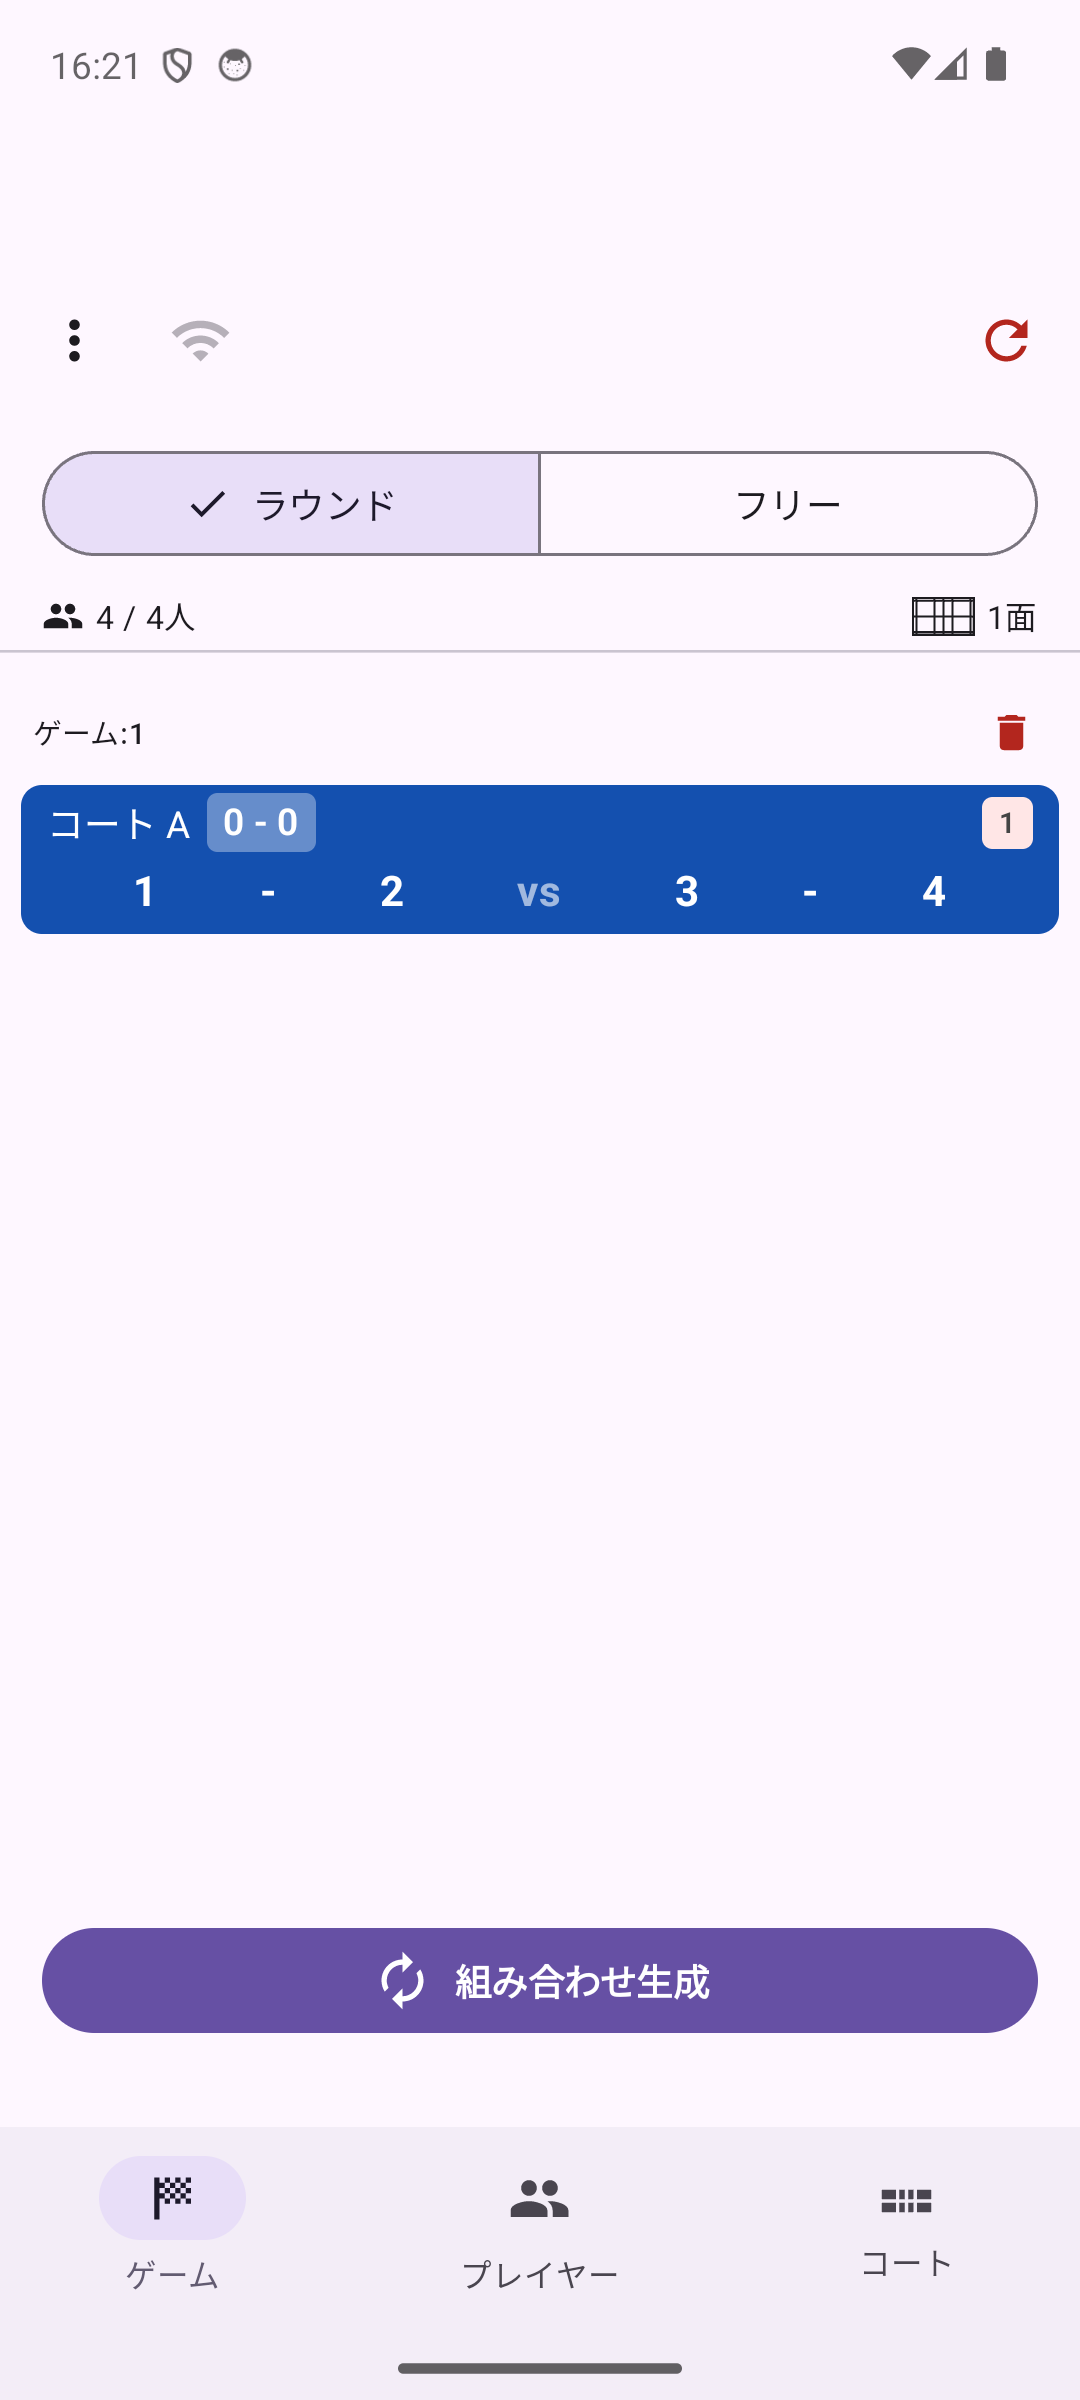
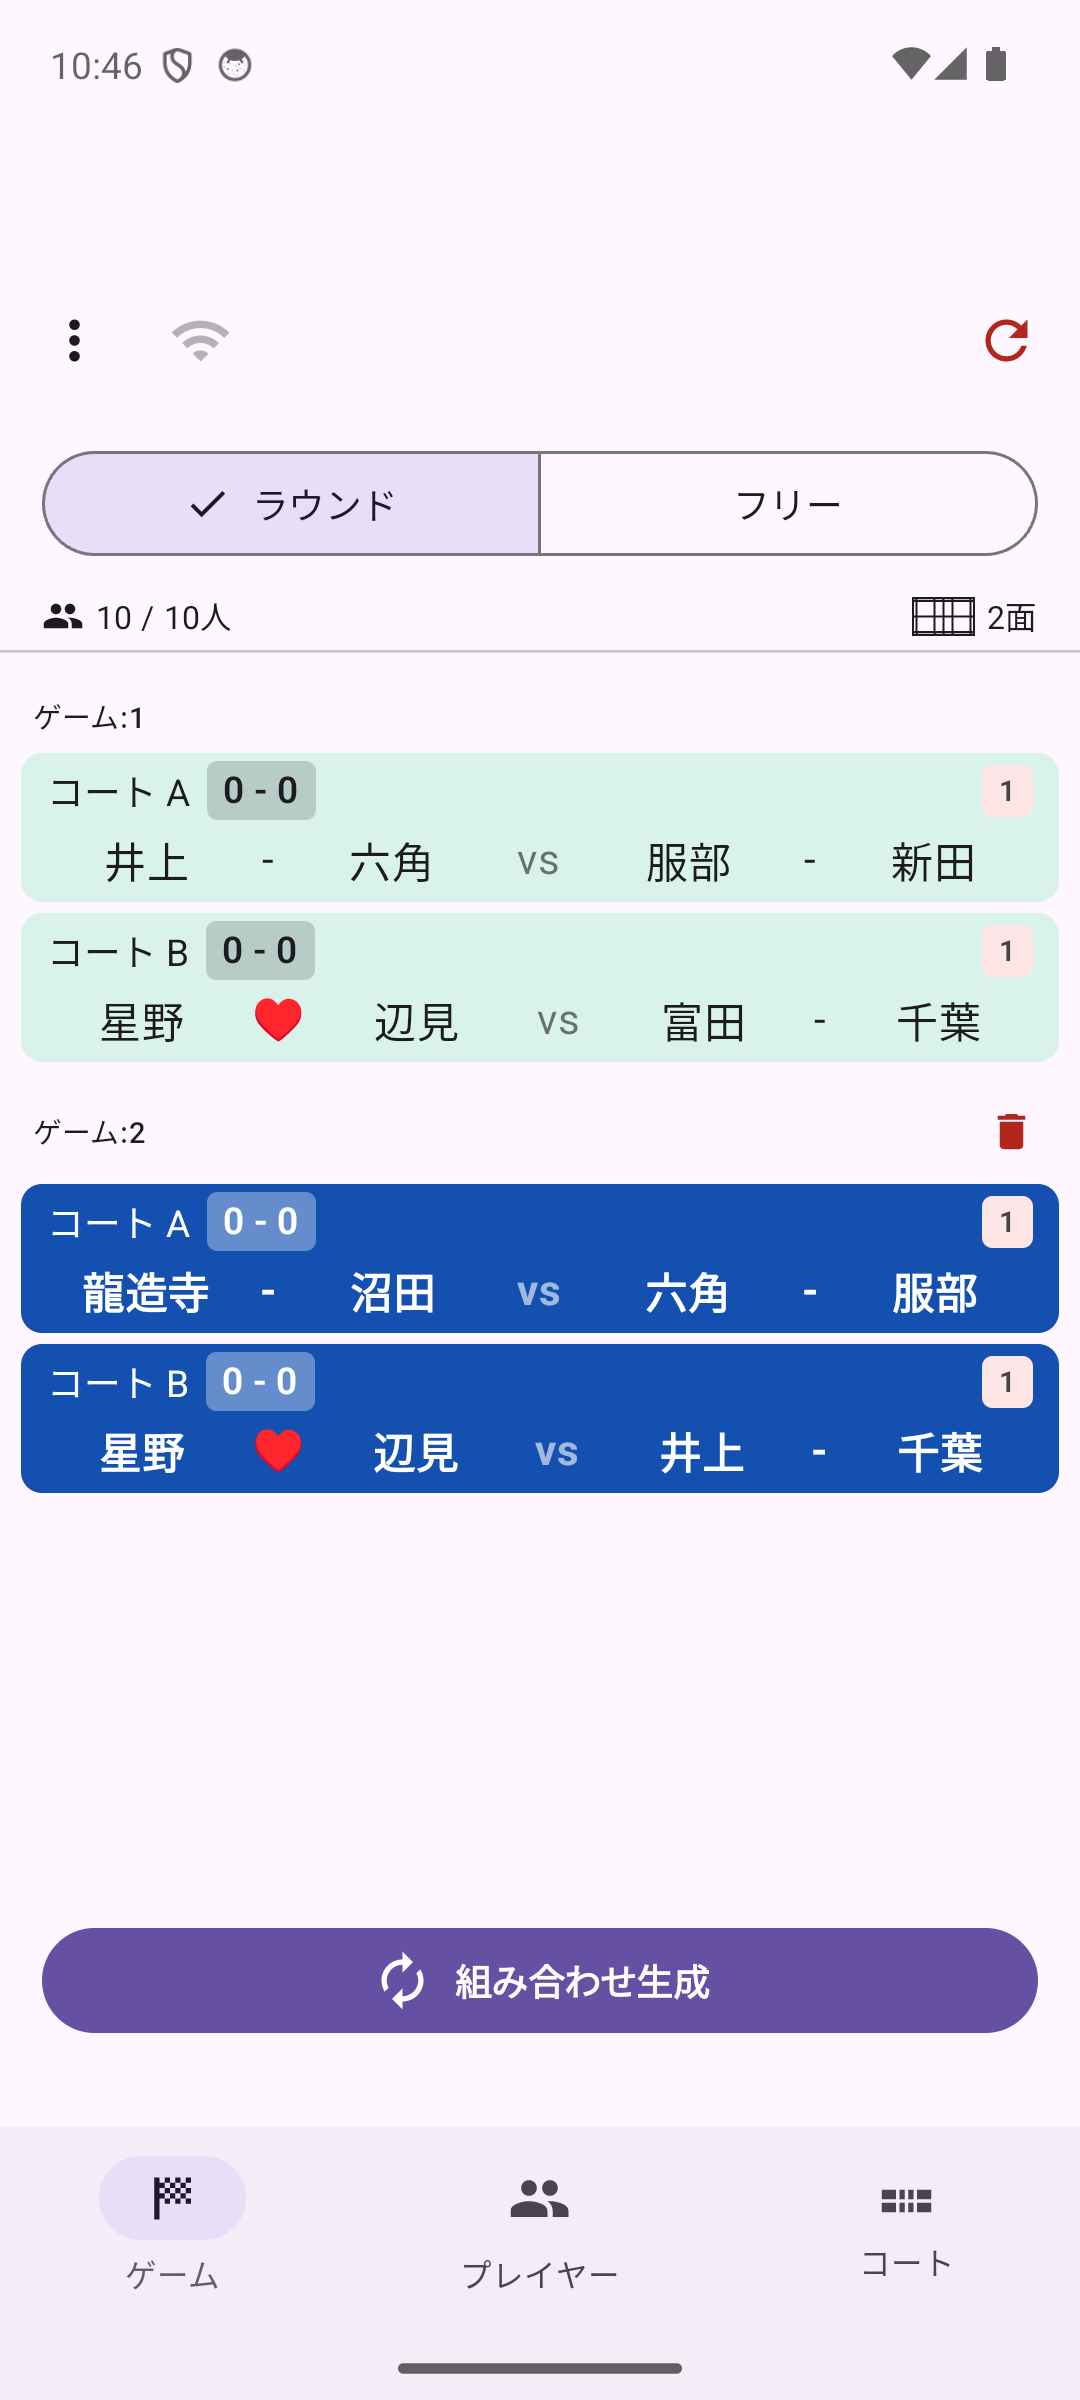
helpのキャプチャ画像を名前入りに刷新し、逆引きガイドの表記を整理（iOS反映）
home.html のメインキャプチャを数字名から実名入りに変更。ラウンドモードの
動作説明・使ってみようガイドは、初期状態の説明と整合する数字名の
従来キャプチャ（game-round-main.png）を維持。逆引きガイドに
「プレイヤーの名前を変えたい」を追加し、「パートナー」表記を「ペア」に統一。

Changed region(s): [[0.0, 0.25, 1.0, 0.625], [0.0917, 0.0, 0.1222, 0.0312]]

diff --git a/game-tab.html b/game-tab.html
@@ -51,7 +51,7 @@
 <h2 id="generate">1. ラウンドモード（全コート一括生成）</h2>
 <p>ゲームタブを開くと、最初は <strong>ラウンド</strong> モードになっています。<code>組み合わせ生成</code> をタップするたびに、その時点の参加プレイヤー全員を対象に、全コート分の組み合わせを一括で生成する標準モードです。</p>
 <p>プレイヤーは自動的に各コートへ割り振られ、同じ相手との組み合わせが続けて重ならないよう調整されます。1ラウンドが終わったらボタンをタップして次のラウンドを生成する、という流れで進行します。</p>
-<div class="ss"><img src="images/home-main.png" alt="ラウンドモードの組み合わせ一覧"></div>
+<div class="ss"><img src="images/game-round-main.png" alt="ラウンドモードの組み合わせ一覧"></div>
 <div class="tip">💡 ラウンドとフリーは、試合の途中でも何度でも切り替えられます。切り替えてもそれまでの試合記録は保持されます。</div>
 
 <h3 id="undo">直前の組み合わせを取り消す</h3>

diff --git a/reverse-lookup.html b/reverse-lookup.html
@@ -19,7 +19,8 @@
 <h2>メンバー・出場管理</h2>
 <ul>
   <li><a href="players-tab.html#add-remove">試合の途中でも人数を増やしたり減らしたりしたい（飛び入り参加・途中退出）</a></li>
-  <li><a href="players-tab.html#fixed-pair">特定の2人を毎回パートナーにしたい</a></li>
+  <li><a href="players-tab.html#rename">プレイヤーの名前を変えたい</a></li>
+  <li><a href="players-tab.html#fixed-pair">特定の2人を毎回ペアにしたい</a></li>
   <li><a href="players-tab.html#rest-toggle">特定の人を一時的に休ませたい（トイレ休憩など）</a></li>
   <li><a href="players-tab.html#default-absent">常連が休みがちで、毎回チェックを外すのが面倒</a></li>
   <li><a href="players-tab.html#pin">早く帰ってしまうメンバーを優先的に試合に入れたい</a></li>

diff --git a/getting-started.html b/getting-started.html
@@ -32,7 +32,7 @@
 
 <h2 id="generate">3. 組み合わせを生成する</h2>
 <p><strong>ゲーム</strong> タブを開いて <code>組み合わせ生成</code> ボタンをタップします。プレイヤーが各コートに自動で割り当てられます。</p>
-<div class="ss"><img src="images/home-main.png" alt="ゲームタブ・生成結果"></div>
+<div class="ss"><img src="images/game-round-main.png" alt="ゲームタブ・生成結果"></div>
 <p>ボタンをタップするたびに次のラウンドの組み合わせが追加されます。重複が少なくなるよう自動的に調整されます。</p>
 
 <h2 id="reset-scores">4. 試合結果をリセットする</h2>
